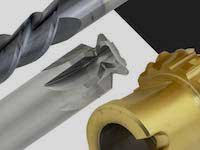
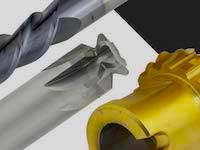
add start to scripts for heroku deployment

Changed region(s): [[0.42, 0.32, 1.0, 1.0]]

diff --git a/public/index.css b/public/index.css
@@ -20,34 +20,30 @@ body, html {
 }
 .div_machining_excellence {
     z-index: 1;
-    height: 80px;
+    height: 82px;
     margin-top: 100px;
     font-family: 'Acherus Grotesque', 'Trebuchet MS', 'Lucida Sans Unicode', 'Lucida Grande', 'Lucida Sans', Arial, sans-serif;
-    color: rgba(255, 255, 255, .3);
+    color: rgba(252, 234, 71, 0.3);
     font-weight: bolder;
-    text-align: left;
+    text-align: center;
     font-size: 60pt;
     overflow: hidden;
     text-overflow: clip;
     white-space: nowrap;    
-    /* border: solid blue 1px; */
 }
 .div_thumb_blurb {
     z-index: 2;
-    /* position: absolute; */
-    /* width: 80%; */
-    /* top: 280px; */
     font-family: 'Acherus Grotesque', 'Trebuchet MS', 'Lucida Sans Unicode', 'Lucida Grande', 'Lucida Sans', Arial, sans-serif;
     color: rgb(255, 255, 255);
-    text-align: left;
+    text-align: center;
     font-size: 12pt;
     text-shadow: 0px 0px 10px black;
-    /* border: solid red 1px; */
+
 }
 .div_thumb_container {
     display: flex;
     justify-content: space-around;
-    margin-top: 100px;
+    margin-top: 80px;
 }
 .div_thumb {
     float: left;
@@ -59,17 +55,13 @@ body, html {
     text-align: center;
     font-size: 10pt;
     text-shadow: 0px 0px 10px black;
+    /* -webkit-filter: grayscale(100%); Safari 6.0 - 9.0 */
+    -webkit-filter: brightness(200%);
+    filter: brightness(100%);
+    /* filter: grayscale(50%); */
 }
-.div_footer {
-    position: fixed;
-    bottom: 0;
-    width: 100%;
-    padding-bottom: 7px;
-    margin-left: auto;
-    margin-right: auto;
-    font-family: 'Acherus Grotesque', 'Trebuchet MS', 'Lucida Sans Unicode', 'Lucida Grande', 'Lucida Sans', Arial, sans-serif;
-    color: rgb(255, 255, 255);
-    text-align: center;
-    font-size: 10pt;
-    text-shadow: 0px 0px 10px black;
+.div_thumb:hover {
+    -webkit-filter: grayscale(100%); /* Safari 6.0 - 9.0 */
+    /* filter: grayscale(0%); */
+    filter: brightness(120%);
 }

diff --git a/public/nav.css b/public/nav.css
@@ -6,6 +6,7 @@
         background: linear-gradient(90deg, rgba(255, 255, 255, .7)1%, rgba(0, 0, 0, 0)49%, rgba(0, 0, 0, 0))50%;
         border-bottom-left-radius: 2px;
         border-top-left-radius: 2px;
+        border-bottom: solid rgba(255, 255, 255, .7) 1px;
     }
     @font-face {
         font-family: "Asche";
@@ -42,7 +43,7 @@
         text-align: center;
         font-family: 'Acherus Grotesque', 'Trebuchet MS', 'Lucida Sans Unicode', 'Lucida Grande', 'Lucida Sans', Arial, sans-serif;
         font-size: 13px;
-        color: white;
+        color: rgb(182, 173, 90);
         /* background: linear-gradient(rgb(105, 85, 20), rgb(141, 127, 70), rgb(36, 18, 2)); */
         margin-top: 20px;
         margin-left: 5px;
@@ -51,6 +52,9 @@
     }
     /* link styling */
     a {
-        color: white;
+        color: rgb(182, 173, 90);
         text-decoration: none;
+    }
+    a:hover {
+        color: white;
     }

diff --git a/public/footer.css b/public/footer.css
@@ -1,0 +1,26 @@
+.div_footer {
+    width:80%;
+    display: flex;
+    justify-content: space-between;
+    position: fixed;
+    bottom: 15px;
+    background: linear-gradient(90deg, rgba(255, 255, 255, .7)1%, rgba(0, 0, 0, 0)49%, rgba(0, 0, 0, 0))50%;
+    border-bottom-left-radius: 2px;
+    border-top-left-radius: 2px;
+    font-family: 'Acherus Grotesque', 'Trebuchet MS', 'Lucida Sans Unicode', 'Lucida Grande', 'Lucida Sans', Arial, sans-serif;
+    font-size: 10pt;
+    text-shadow: 0px 0px 10px black;
+    border-top: solid rgba(255, 255, 255, .7) 1px;
+}
+@font-face {
+    font-family: "Asche";
+    src: url("acherus_grotesque_-_regular.otf") format("opentype");
+}
+.div_copyright {
+    margin: 7px;
+    color: white;
+}
+.div_footer_contact {
+    margin: 7px;
+    color: rgb(182, 173, 90);
+}

diff --git a/documents/hours_log.md b/documents/hours_log.md
@@ -4,3 +4,5 @@
 * 3:30 - 4:30pm | add logo, phone numbers, more nav and header css
 * 5:00 - 6:00 | background image collection
 * 6:45 - 8:30 | revamp layout, scrap replication and move to original design
+## 2018_11_08
+* 7am - 2pm | tweak navigation, add taglines and thumbnails. Add footer
